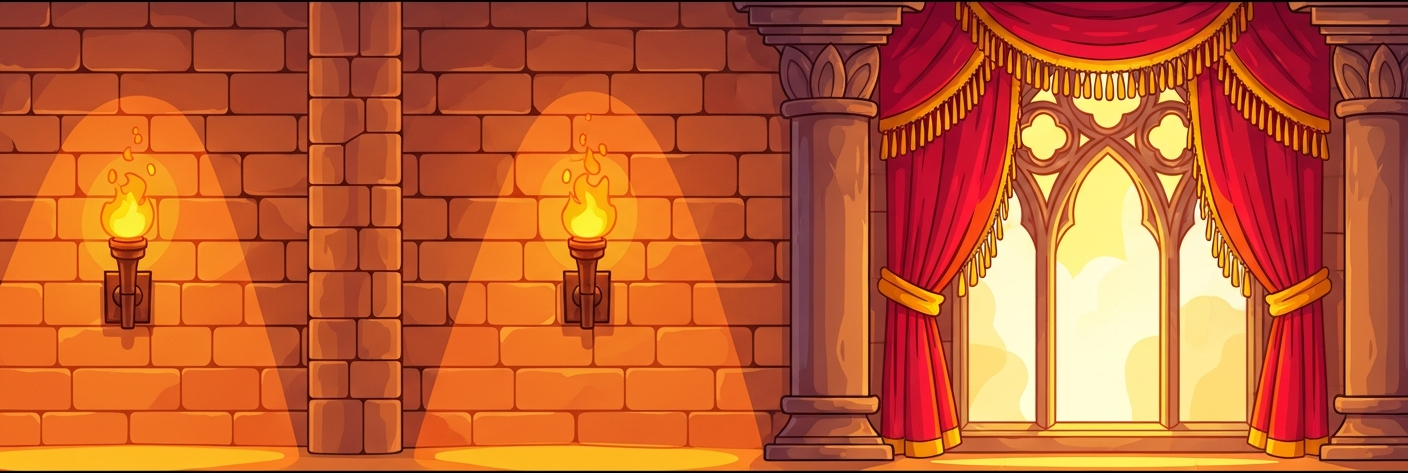
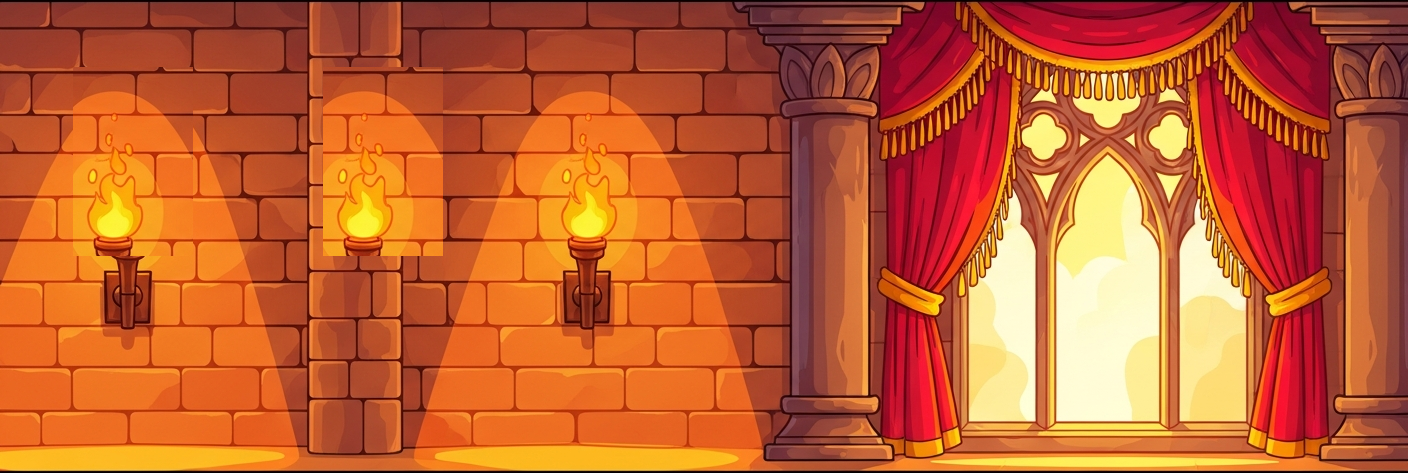
Update torch art and positioning to improve game visuals
Remove painted torches from background images, add a torch sconce graphic, and adjust the flame animation to appear higher on the wall.

Replit-Commit-Author: Agent
Replit-Commit-Session-Id: c7b7eeb9-c1de-43e3-8e58-ffdee0e9d70b
Replit-Commit-Checkpoint-Type: full_checkpoint
Replit-Commit-Event-Id: cd33dd10-d73c-40a0-bf56-c85c1da28832
Replit-Helium-Checkpoint-Created: true

Changed region(s): [[0.2188, 0.1184, 0.3125, 0.5624], [0.0312, 0.148, 0.1562, 0.5624]]

diff --git a/Game/mainGame.py b/Game/mainGame.py
@@ -1513,9 +1513,14 @@ class Background():
             self.fire_frames.append(f)
         self.fire_frame_idx = 0
         self.fire_timer = 0
-        # Torch x offsets within one 900px-wide bg copy (measured from background1.png)
+        # Torch sconce image drawn below the flame
+        self.torch_sconce = pygame.image.load('Game/Images/torch.png').convert_alpha()
+        self.torch_sconce = pygame.transform.scale(self.torch_sconce, (52, 44))
+        # Torch x offsets within one 900px-wide bg copy
         self.torch_offsets = [73, 233]
-        self.torch_y = 195   # y in 900x700 where flame sits
+        # Fire y: higher on wall; sconce sits just below
+        self.fire_y = 148     # flame top (52px tall → bottom at y=200)
+        self.sconce_y = 198   # sconce drawn right below flame
 
         self.rectBGimg = self.bgimage.get_rect()
         self.bgY1 = 0
@@ -1568,13 +1573,14 @@ class Background():
         self.surface.blit(self.roof, (self.bgX1, self.bgY1))
         self.surface.blit(self.roof, (self.bgX2, self.bgY2))
 
-        # Animate fire torches over the background torch positions
+        # Animate fire + draw sconce over each torch position
         fire_img = self.fire_frames[self.fire_frame_idx]
         for bgx in (self.bgX1, self.bgX2 + 5):
             for tx in self.torch_offsets:
                 sx = bgx + tx
                 if -60 < sx < 960:
-                    self.surface.blit(fire_img, (sx, self.torch_y))
+                    self.surface.blit(fire_img, (sx, self.fire_y))
+                    self.surface.blit(self.torch_sconce, (sx, self.sconce_y))
         self.fire_timer += 1
         if self.fire_timer >= 7:
             self.fire_timer = 0
